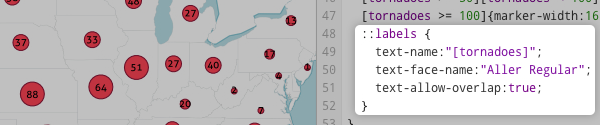
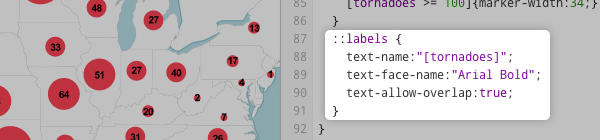
adjustment to adv map design guide

diff --git a/_posts/docs/tutorials/0203-03-02-advanced-map-design.md b/_posts/docs/tutorials/0203-03-02-advanced-map-design.md
@@ -72,8 +72,7 @@ This creates a new **symbolizer** for your layer. The name 'label' here is arbit
 2. `text-name`  
 This denotes the **field** whose text will be displayed.  
 3. `text-face-name`  
-This sets the **font** for the text label. You can view a list of available font's by clicking the **font button** in the lower left.
-  ![](/tilemill/assets/pages/label-styling-2.png)
+This sets the **font** for the text label. You can view a list of available system fonts by clicking the **font button (A)** in the upper right.
 4. `text-allow-overlap`  
 This allows the text and the dots to be displayed together at the same location. By default this option is set to false, which prevents overlapping items.
 
@@ -190,7 +189,7 @@ And the final project Carto code for reference:
 	  }
 	  ::labels {
 	    text-name:"[tornadoes]";
-	    text-face-name:"Aller Regular";
+	    text-face-name:"Arial Bold";
 	    text-allow-overlap:true;
 	    [zoom = 3]{
 	      [tornadoes < 25]{text-opacity:0;}

diff --git a/_posts/docs/tutorials/0203-03-03-advanced-legends.md b/_posts/docs/tutorials/0203-03-03-advanced-legends.md
@@ -27,7 +27,7 @@ Another big advantage with html/css is that you can easily pass the source code 
 Copy and paste the block of code directly into TileMill's legend field. Then follow this guide to tweak the template for your own purposes.
   ![](/tilemill/assets/pages/advanced-legends-3.png)
 
-**1. Horizontal Sequential
+**1. Horizontal Sequential**
   ![](/tilemill/assets/pages/advanced-legends-2.png)
 
     <div class='my-legend'>
